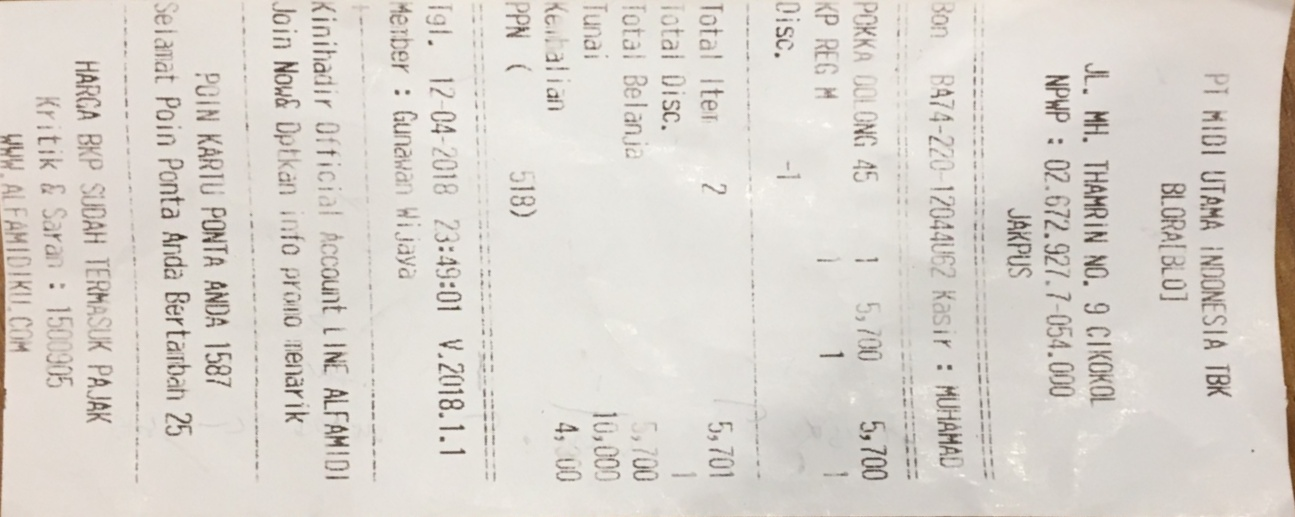
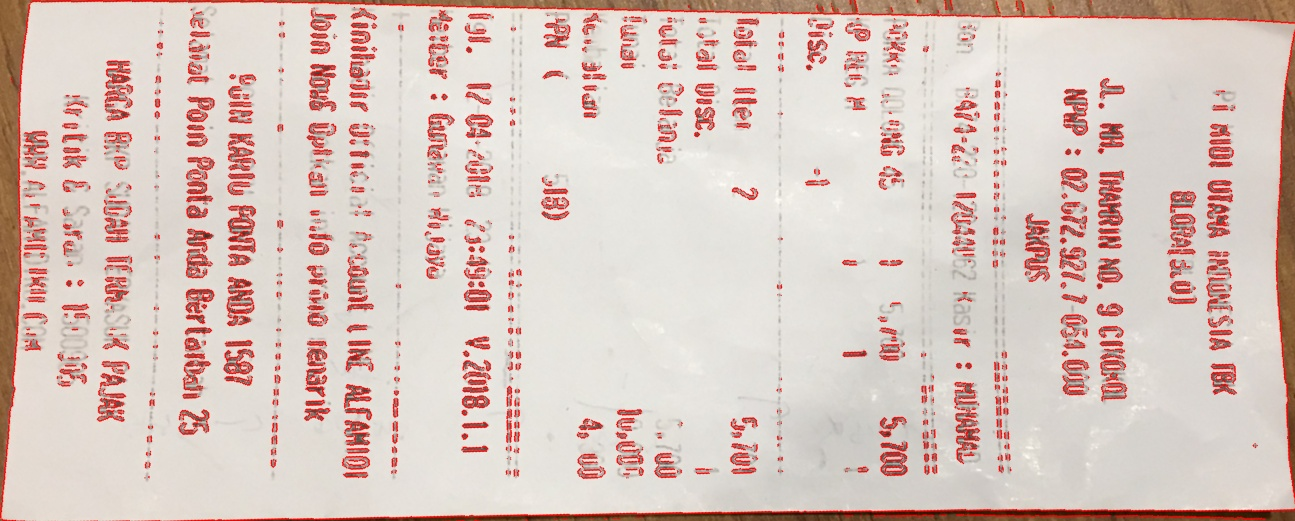
goog enough

diff --git a/ImageProcesing.py b/ImageProcesing.py
@@ -27,28 +27,29 @@ class ImageTransform  :
         self.greyImage =  cv2.GaussianBlur(greyImage, matrixSize, 0)
         return self
 
-    def edgeDetect(self):
-        self.gausianBlur((9,9))
+    def edgeDetect(self, method = 'canny'):
+        self.gausianBlur((7,7))
         self.newImage = self.image.copy()
+       
         edge = cv2.Canny(self.greyImage, 100,100)
+        if method == 'laplace' : edge = cv2.Laplacian(self.greyImage,cv2.CV_8UC1)
         _,contours,_ = cv2.findContours(edge.copy(),1,1)
         self.contours = contours
         maxArea = 0
         maxPeri = 0
         maxCountour = 0
 
-        # for i in contours:
-        #     area = cv2.contourArea(i)
-        #     pe
-        #     print('areaa', area)
-        #     if area > maxArea:
-        #         maxArea = area
-        #         maxCountour = i
-        for i in contours : 
-            peri = cv2.arcLength(i, True)
-            if peri > maxPeri:
-               maxPeri = peri
-               maxCountour = i
+        for i in contours:
+            area = cv2.contourArea(i)
+            if area > maxArea:
+                maxArea = area
+                maxCountour = i
+        # for i in contours : 
+        #     peri = cv2.arcLength(i, True)
+        #     if peri > maxPeri:
+        #        maxPeri = peri
+        #        maxCountour = i
+        
 
         self.maxCountour = maxCountour
         return self
@@ -60,7 +61,7 @@ class ImageTransform  :
     def getRectangle(self):
         rect= cv2.minAreaRect(self.maxCountour)
         box = cv2.boxPoints(rect)
-        # box = np.intc(box)
+        box = np.intc(box)
         peri=cv2.arcLength(box,True)
         approx=cv2.approxPolyDP(box,0.02*peri,True)
         w,h,arr = transform(approx)
@@ -69,7 +70,12 @@ class ImageTransform  :
         pts1=np.float32(arr)
         M=cv2.getPerspectiveTransform(pts1,pts2)
         newImage=cv2.warpPerspective(self.image, M,(w,h))
-        self.image = newImage
+        ratio = newImage.size / self.image.size
+        print(ratio)
+        if ratio > 0.2 and ratio < 1: self.image = newImage
+        h,w,_ = self.image.shape
+        print(w,h)
+        if w > h : self.rotate(90)
         return self
 
 
